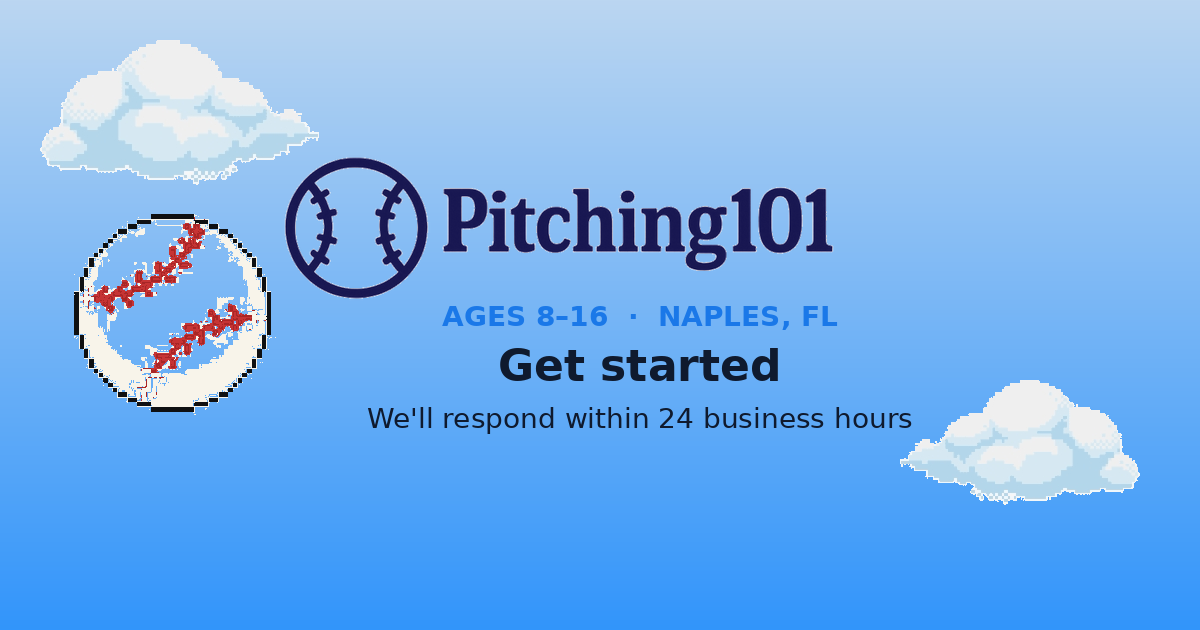
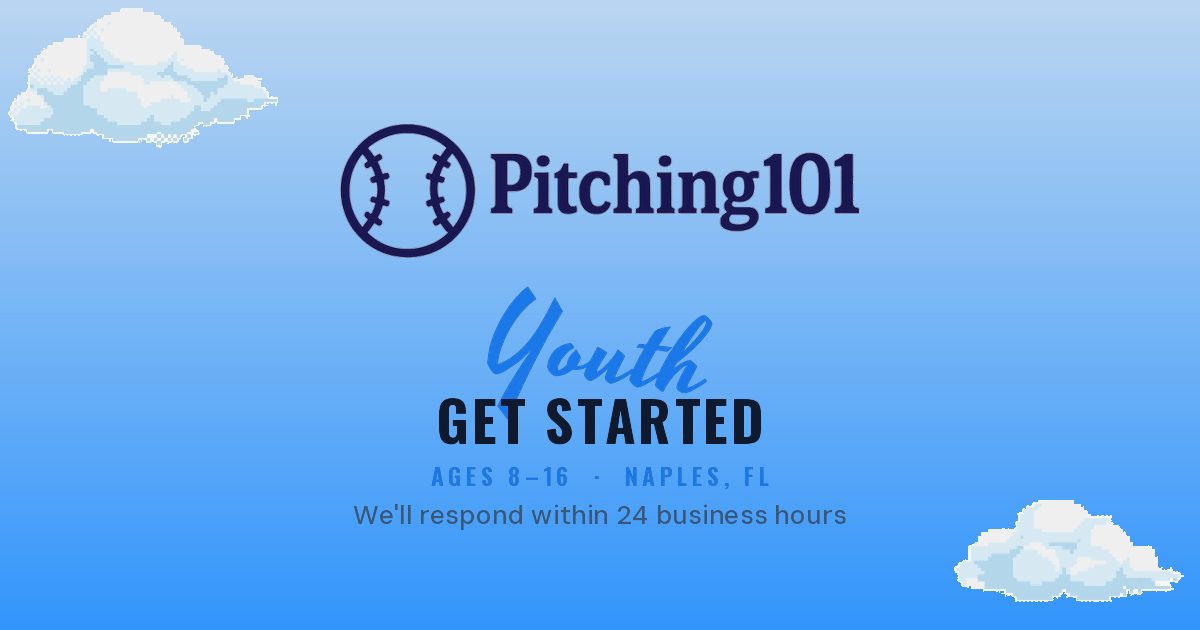
Drop the extra baseball from share cards and set them in Oswald.
Keep only the wordmark baseball on Open Graph images, and draw titles in Oswald with a Yesteryear Youth lockup.

Changed region(s): [[0.0, 0.0, 0.7092, 0.6635], [0.2775, 0.4524, 0.9867, 0.9651]]

diff --git a/scripts/generate-og.py b/scripts/generate-og.py
@@ -1,0 +1,210 @@
+#!/usr/bin/env python3
+"""Build Pitching101 Open Graph cards: sky, clouds, wordmark baseball only, Oswald + Yesteryear."""
+
+from __future__ import annotations
+
+import shutil
+import urllib.request
+from pathlib import Path
+
+from PIL import Image, ImageDraw, ImageFont
+
+ROOT = Path(__file__).resolve().parents[1]
+ASSETS = ROOT / "public" / "assets"
+OUT_OG = ROOT / "public" / "og"
+FONT_DIR = Path("/tmp/p101-fonts")
+
+W, H = 1200, 630
+SKY_TOP = (187, 214, 241)  # --blue-soft #BBD6F1
+SKY_BOTTOM = (50, 149, 251)  # --blue #3295fb
+INK = (15, 26, 46)  # --ink
+INK_SOFT = (61, 86, 116)  # --ink-soft
+BLUE_DARK = (26, 120, 232)  # --blue-dark
+
+FONT_URLS = {
+    "Oswald.ttf": "https://raw.githubusercontent.com/google/fonts/main/ofl/oswald/Oswald%5Bwght%5D.ttf",
+    "Yesteryear-Regular.ttf": "https://raw.githubusercontent.com/google/fonts/main/ofl/yesteryear/Yesteryear-Regular.ttf",
+    "DMSans.ttf": "https://raw.githubusercontent.com/google/fonts/main/ofl/dmsans/DMSans%5Bopsz%2Cwght%5D.ttf",
+}
+
+
+def ensure_fonts() -> None:
+    FONT_DIR.mkdir(parents=True, exist_ok=True)
+    for name, url in FONT_URLS.items():
+        dest = FONT_DIR / name
+        if dest.exists() and dest.stat().st_size > 10_000:
+            continue
+        urllib.request.urlretrieve(url, dest)
+
+
+def oswald(size: int, weight: int = 700) -> ImageFont.FreeTypeFont:
+    font = ImageFont.truetype(str(FONT_DIR / "Oswald.ttf"), size)
+    font.set_variation_by_axes([weight])
+    return font
+
+
+def yesteryear(size: int) -> ImageFont.FreeTypeFont:
+    return ImageFont.truetype(str(FONT_DIR / "Yesteryear-Regular.ttf"), size)
+
+
+def dm_sans(size: int, weight: int = 500) -> ImageFont.FreeTypeFont:
+    font = ImageFont.truetype(str(FONT_DIR / "DMSans.ttf"), size)
+    font.set_variation_by_axes([9, weight])
+    return font
+
+
+def sky() -> Image.Image:
+    img = Image.new("RGB", (W, H), SKY_BOTTOM)
+    px = img.load()
+    for y in range(H):
+        t = y / (H - 1)
+        color = tuple(int(SKY_TOP[i] + (SKY_BOTTOM[i] - SKY_TOP[i]) * t) for i in range(3))
+        for x in range(W):
+            px[x, y] = color
+    return img
+
+
+def paste(base: Image.Image, overlay: Image.Image, xy: tuple[int, int]) -> None:
+    if overlay.mode != "RGBA":
+        overlay = overlay.convert("RGBA")
+    base.paste(overlay, xy, overlay)
+
+
+def crop_alpha(im: Image.Image) -> Image.Image:
+    bbox = im.getbbox()
+    return im.crop(bbox) if bbox else im
+
+
+def scale_rgba(path: Path, width: int, nearest: bool = False) -> Image.Image:
+    src = crop_alpha(Image.open(path).convert("RGBA"))
+    ratio = width / src.width
+    size = (width, max(1, round(src.height * ratio)))
+    resample = Image.Resampling.NEAREST if nearest else Image.Resampling.LANCZOS
+    return src.resize(size, resample)
+
+
+def text_layer(
+    text: str,
+    font: ImageFont.FreeTypeFont,
+    fill: tuple[int, int, int],
+    tracking: float = 0,
+    pad: int = 12,
+) -> Image.Image:
+    if not text:
+        return Image.new("RGBA", (1, 1), (0, 0, 0, 0))
+    advances = [font.getlength(ch) + tracking for ch in text]
+    advances[-1] -= tracking
+    width = int(round(sum(advances))) + pad * 2
+    ascent, descent = font.getmetrics()
+    height = ascent + descent + pad * 2
+    layer = Image.new("RGBA", (width, height), (0, 0, 0, 0))
+    draw = ImageDraw.Draw(layer)
+    x = pad
+    for ch, advance in zip(text, advances):
+        draw.text((x, pad), ch, font=font, fill=fill)
+        x += advance
+    return crop_alpha(layer)
+
+
+def script_lockup(word: str) -> Image.Image:
+    layer = text_layer(word, yesteryear(108), BLUE_DARK, tracking=1.6, pad=28)
+    return crop_alpha(layer.rotate(-8, resample=Image.Resampling.BICUBIC, expand=True))
+
+
+def stack_centered(layers: list[Image.Image], gaps: list[int]) -> Image.Image:
+    assert len(gaps) == len(layers) - 1
+    width = max(layer.width for layer in layers)
+    height = sum(layer.height for layer in layers) + sum(gaps)
+    canvas = Image.new("RGBA", (width, height), (0, 0, 0, 0))
+    y = 0
+    for i, layer in enumerate(layers):
+        paste(canvas, layer, ((width - layer.width) // 2, y))
+        y += layer.height
+        if i < len(gaps):
+            y += gaps[i]
+    return canvas
+
+
+def compose_card(title: str, kicker: str, subtitle: str, script: str = "Youth") -> Image.Image:
+    card = sky().convert("RGBA")
+
+    cloud_tl = scale_rgba(ASSETS / "pixel-cloud-1-transparent.png", 270, nearest=True)
+    cloud_br = scale_rgba(ASSETS / "pixel-cloud-4-transparent.png", 230, nearest=True)
+    paste(card, cloud_tl, (8, 8))
+    paste(card, cloud_br, (W - cloud_br.width - 16, H - cloud_br.height - 28))
+
+    logo = scale_rgba(ASSETS / "logo-header-navy.png", 520)
+    script_img = script_lockup(script)
+    title_img = text_layer(title.upper(), oswald(56, 700), INK, tracking=3.0)
+    kicker_img = text_layer(kicker.upper(), oswald(24, 600), BLUE_DARK, tracking=4.4)
+    sub_img = text_layer(subtitle, dm_sans(26, 500), INK_SOFT, tracking=0.3)
+
+    # Tight lockup like the site: script sits on the varsity title.
+    column = stack_centered(
+        [logo, script_img, title_img, kicker_img, sub_img],
+        gaps=[28, -22, 22, 14],
+    )
+    x = (W - column.width) // 2
+    y = (H - column.height) // 2 + 12
+    paste(card, column, (x, y))
+    return card.convert("RGB")
+
+
+CARDS = [
+    {
+        "name": "home.png",
+        "title": "Youth pitching lessons",
+        "kicker": "Naples, FL  ·  ages 8–16",
+        "subtitle": "Coach Deising  ·  Pitching101",
+        "copies": [
+            ROOT / "src" / "app" / "opengraph-image.png",
+            ROOT / "src" / "app" / "twitter-image.png",
+        ],
+    },
+    {
+        "name": "guides.png",
+        "title": "Youth pitching guides",
+        "kicker": "Free  ·  ages 8–16",
+        "subtitle": "Arm care, strike tips, pre-catch warmup",
+    },
+    {
+        "name": "contact.png",
+        "title": "Get started",
+        "kicker": "Ages 8–16  ·  Naples, FL",
+        "subtitle": "We'll respond within 24 business hours",
+    },
+    {
+        "name": "arm-care-checklist.png",
+        "title": "Arm-care checklist",
+        "kicker": "Free guide",
+        "subtitle": "Warm-up and cool-down from lessons",
+    },
+    {
+        "name": "strike-tips.png",
+        "title": "Strike tips",
+        "kicker": "Free guide",
+        "subtitle": "Simple cues for more strikes",
+    },
+    {
+        "name": "pre-catch-warmup.png",
+        "title": "Pre-catch warmup",
+        "kicker": "Free guide",
+        "subtitle": "A short routine so catch starts ready",
+    },
+]
+
+
+def main() -> None:
+    ensure_fonts()
+    OUT_OG.mkdir(parents=True, exist_ok=True)
+    for spec in CARDS:
+        image = compose_card(spec["title"], spec["kicker"], spec["subtitle"])
+        dest = OUT_OG / spec["name"]
+        image.save(dest, "PNG", optimize=True)
+        for copy in spec.get("copies", []):
+            shutil.copyfile(dest, copy)
+        print(f"wrote {dest.relative_to(ROOT)}")
+
+
+if __name__ == "__main__":
+    main()
